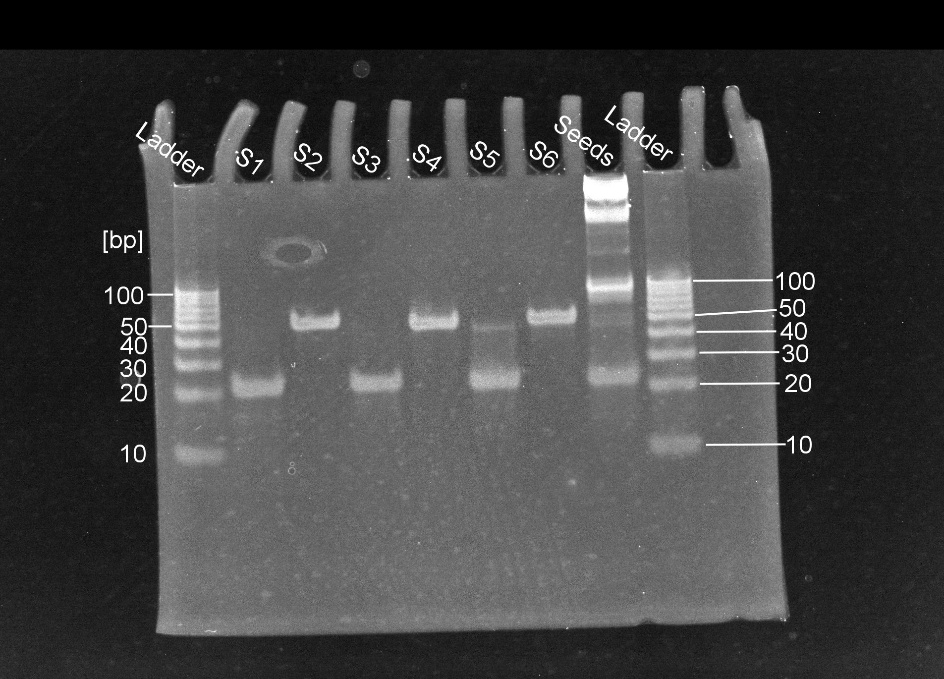
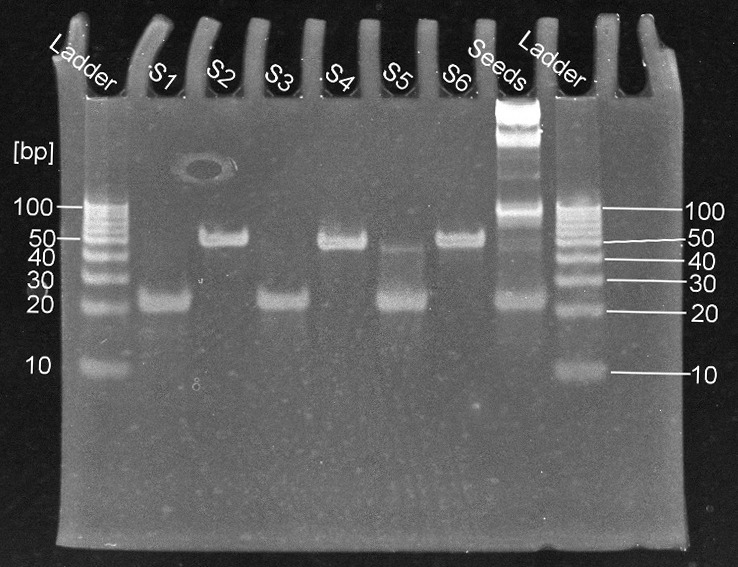
Experiment整理

diff --git a/experiment.html b/experiment.html
@@ -58,7 +58,7 @@
 
                     <!-- Experiment A の四角枠 -->
                     <div class="content-box mb-4">
-                        <h4 class="h5 fw-bold mb-3">Experiment A: <br>
+                        <h4 class="h5 fw-bold mb-3 section-subtitle">Experiment A: <br>
                             Synthesis and elongation of a 6-helix DNA bundle via Bundled HCR.</h4>
                         <p class="text-secondary mb-0">
                             In Experiment A, we investigated the reaction mechanism of Bundled HCR using a minimal model designed to elongate into a 6-helix DNA bundle. Given the high scalability of the Bundled HCR architecture, successful synthesis of the 6-helix bundle indicates that the system can be readily scaled up to 12-helix and 13-helix bundles.
@@ -67,7 +67,7 @@
 
                     <!-- Experiment B の四角枠 -->
                     <div class="content-box">
-                        <h4 class="h5 fw-bold mb-3">Experiment B: <br>
+                        <h4 class="h5 fw-bold mb-3 section-subtitle">Experiment B: <br>
                             Lipid membrane disruption by 12-helix and 13-helix DNA bundles.</h4>
                         <p class="text-secondary mb-0">
                             In Experiment B, we evaluated the physical membrane-disrupting capability of cholesterol-modified 12-helix and 13-helix DNA bundles. These structures, which possess sufficient rigidity to deform and rupture lipid membranes as indicated by our simulation results, were pre-assembled via thermal annealing.

diff --git a/style.css b/style.css
@@ -2420,15 +2420,6 @@ main :not(h1):not(.page-title):not(.fa-solid):not(.fa-regular):not(.fa-brands) {
     background-color: rgba(216, 185, 111, 0.25);
 }
 
-/* Comfortable reading measure and contrast for prose */
-.experiment-page .exp-subsection p.text-secondary,
-.experiment-page .exp-subsection ul.text-secondary {
-    max-width: 760px;
-    font-size: 1.02rem;
-    line-height: 1.85;
-    color: #d0dae6 !important;
-}
-
 .experiment-page .exp-subsection p.small {
     font-size: 0.88rem;
 }
